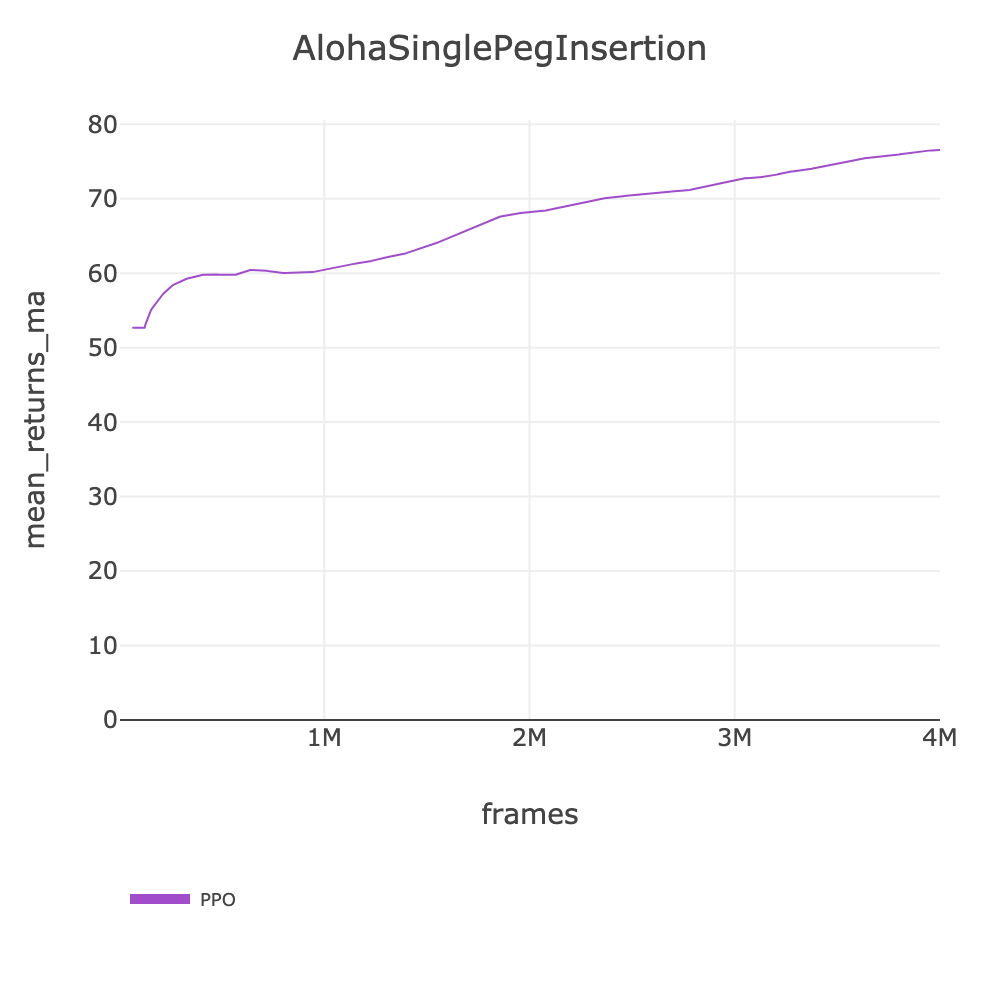
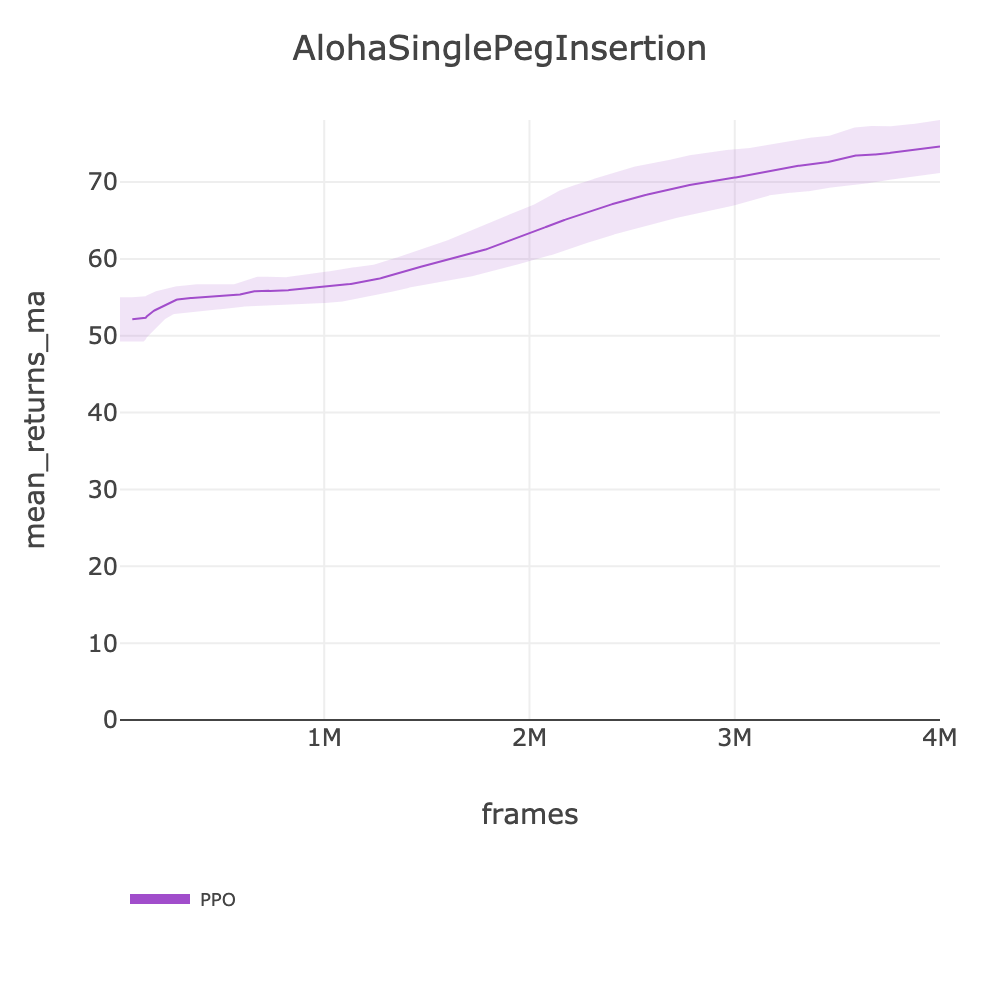
fix: loco robot plots batch 2 — SpotGetup, T1, AlohaSinglePegInsertion 4-session reruns
Proper error envelopes now visible. Scores updated with 4-session averages.

diff --git a/docs/BENCHMARKS.md b/docs/BENCHMARKS.md
@@ -930,13 +930,13 @@ source .env && slm-lab run-remote --gpu -s env=playground/CartpoleBalance -s max
 | playground/SpotFlatTerrainJoystick | PPO loco | 0.00 | N/A | ~393 (loco/64e) | 4M | ~2.8h | [ppo_playground_arc_loco_spotflatterrainjoystick_2026_03_08_212507](https://huggingface.co/datasets/SLM-Lab/benchmark-dev/tree/main/data/ppo_playground_arc_loco_spotflatterrainjoystick_2026_03_08_212507) |
 | | SAC | - | | - | - | - | - |
 | | CrossQ | - | | - | - | - | - |
-| playground/SpotGetup | PPO loco | 1.48 | N/A | ~498 (loco/64e) | 4M | ~2.2h | [ppo_playground_arc_loco_spotgetup_2026_03_08_033550](https://huggingface.co/datasets/SLM-Lab/benchmark-dev/tree/main/data/ppo_playground_arc_loco_spotgetup_2026_03_08_033550) |
+| playground/SpotGetup | PPO loco | 1.46 | N/A | ~498 (loco/64e) | 4M | ~2.2h | [ppo_playground_arc_loco_spotgetup_2026_03_09_005004](https://huggingface.co/datasets/SLM-Lab/benchmark-dev/tree/main/data/ppo_playground_arc_loco_spotgetup_2026_03_09_005004) |
 | | SAC | - | | - | - | - | - |
 | | CrossQ | - | | - | - | - | - |
 | playground/SpotJoystickGaitTracking | PPO loco | 0.10 | N/A | ~572 (loco/64e) | 4M | ~1.9h | [ppo_playground_arc_loco_spotjoystickgaittracking_2026_03_08_034659](https://huggingface.co/datasets/SLM-Lab/benchmark-dev/tree/main/data/ppo_playground_arc_loco_spotjoystickgaittracking_2026_03_08_034659) |
 | | SAC | - | | - | - | - | - |
 | | CrossQ | - | | - | - | - | - |
-| playground/T1JoystickFlatTerrain | PPO loco | 0.03 | N/A | ~245 (loco/64e) | 4M | ~4.5h | [ppo_playground_arc_loco_t1joystickflatterrain_2026_03_08_033500](https://huggingface.co/datasets/SLM-Lab/benchmark-dev/tree/main/data/ppo_playground_arc_loco_t1joystickflatterrain_2026_03_08_033500) |
+| playground/T1JoystickFlatTerrain | PPO loco | 0.03 | N/A | ~245 (loco/64e) | 4M | ~4.5h | [ppo_playground_arc_loco_t1joystickflatterrain_2026_03_09_014921](https://huggingface.co/datasets/SLM-Lab/benchmark-dev/tree/main/data/ppo_playground_arc_loco_t1joystickflatterrain_2026_03_09_014921) |
 | | SAC | - | | - | - | - | - |
 | | CrossQ | - | | - | - | - | - |
 | playground/T1JoystickRoughTerrain | PPO | - | N/A | - | - | - | - |
@@ -960,7 +960,7 @@ source .env && slm-lab run-remote --gpu -s env=playground/CartpoleBalance -s max
 | playground/AlohaHandOver | PPO loco | 0.05 | N/A | ~245 (loco/64e) | 4M | ~4.5h | [ppo_playground_arc_loco_alohahandover_2026_03_08_093402](https://huggingface.co/datasets/SLM-Lab/benchmark-dev/tree/main/data/ppo_playground_arc_loco_alohahandover_2026_03_08_093402) |
 | | SAC | - | | - | - | - | - |
 | | CrossQ | - | | - | - | - | - |
-| playground/AlohaSinglePegInsertion | PPO loco | 76.54 | N/A | ~412 (loco/64e) | 4M | ~2.7h | [ppo_playground_arc_loco_alohasinglepeginsertion_2026_03_08_093428](https://huggingface.co/datasets/SLM-Lab/benchmark-dev/tree/main/data/ppo_playground_arc_loco_alohasinglepeginsertion_2026_03_08_093428) |
+| playground/AlohaSinglePegInsertion | PPO loco | 74.62 | N/A | ~412 (loco/64e) | 4M | ~2.7h | [ppo_playground_arc_loco_alohasinglepeginsertion_2026_03_09_012118](https://huggingface.co/datasets/SLM-Lab/benchmark-dev/tree/main/data/ppo_playground_arc_loco_alohasinglepeginsertion_2026_03_09_012118) |
 | | SAC | - | | - | - | - | - |
 | | CrossQ | - | | - | - | - | - |
 | playground/LeapCubeReorient | PPO loco | -10.19 | N/A | ~240 (loco/64e) | 4M | ~4.6h | [ppo_playground_arc_loco_leapcubereorient_2026_03_08_093428](https://huggingface.co/datasets/SLM-Lab/benchmark-dev/tree/main/data/ppo_playground_arc_loco_leapcubereorient_2026_03_08_093428) |
